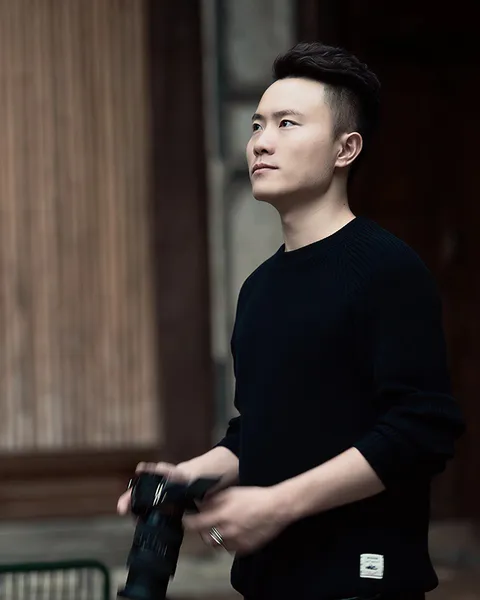
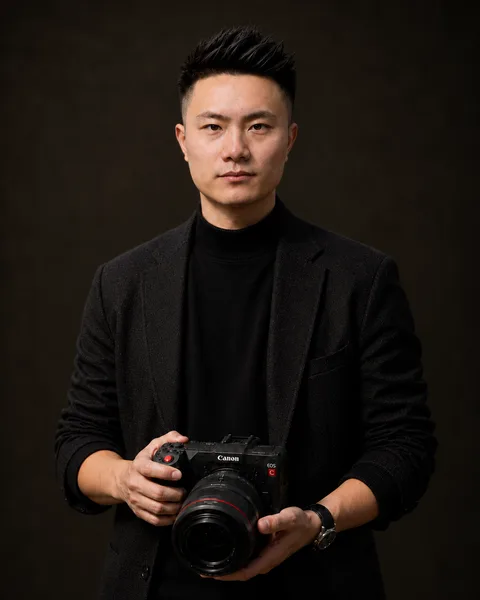
fix(blog): Simon Lee's author portrait is the Owner's studio portrait

diff --git a/src/core/blog/ui/blog.css b/src/core/blog/ui/blog.css
@@ -91,7 +91,7 @@
 
   /* the card on the author under a post */
   .mk-blog-author-card { margin-top: 48px; max-width: 68ch; display: flex; gap: 16px; align-items: flex-start; padding: 18px; border-radius: 18px; background: var(--card); box-shadow: inset 0 0 0 1px var(--border); }
-  .mk-blog-author-card img { flex: none; width: 72px; height: 72px; border-radius: 50%; object-fit: cover; object-position: 58% 18%; }
+  .mk-blog-author-card img { flex: none; width: 72px; height: 72px; border-radius: 50%; object-fit: cover; object-position: 50% 8%; }
   .mk-blog-author-card p { font-size: 15px; line-height: 1.55; color: var(--bone-dim); }
   .mk-blog-author-card p.mk-blog-author-card-title { font: 600 13px/1.2 var(--font-sans); letter-spacing: .04em; text-transform: uppercase; color: var(--muted-foreground); }
   .mk-blog-author-card p.mk-blog-author-card-name { margin-top: 6px; font: 600 18px/1.3 var(--font-sans); }

diff --git a/src/site/content/blog-authors.ts b/src/site/content/blog-authors.ts
@@ -1,7 +1,7 @@
 import type { BlogAuthor } from '@/core/blog/authors'
 
 // Shotviva's blog authors (core/blog/authors.ts). A post whose 作者名 is exactly one of these
-// names links to that author's page. Facts from the Owner's own profile (2026-11-21); keep
+// names links to that author's page. Facts and portrait from the Owner (2026-11-21); keep
 // them to what the Owner has confirmed.
 
 export const BLOG_AUTHORS: readonly BlogAuthor[] = [
